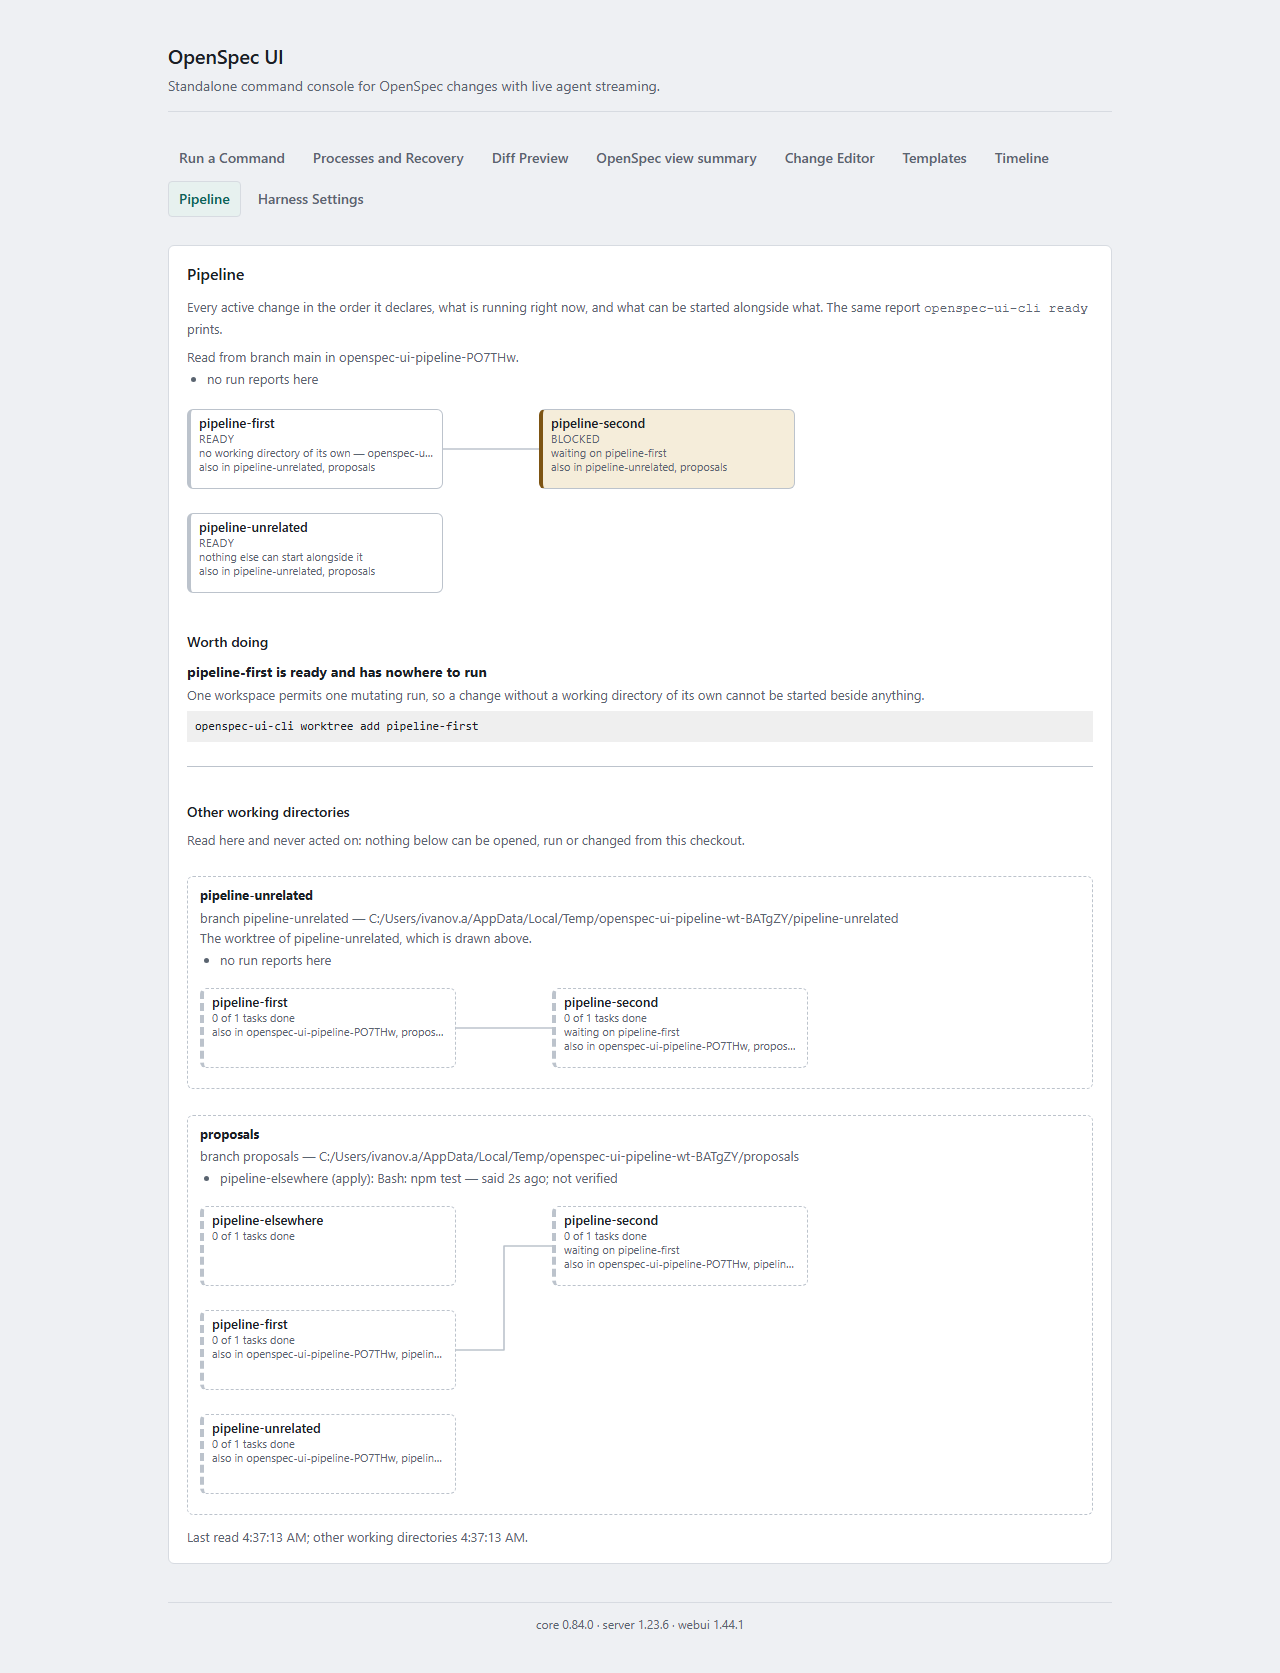
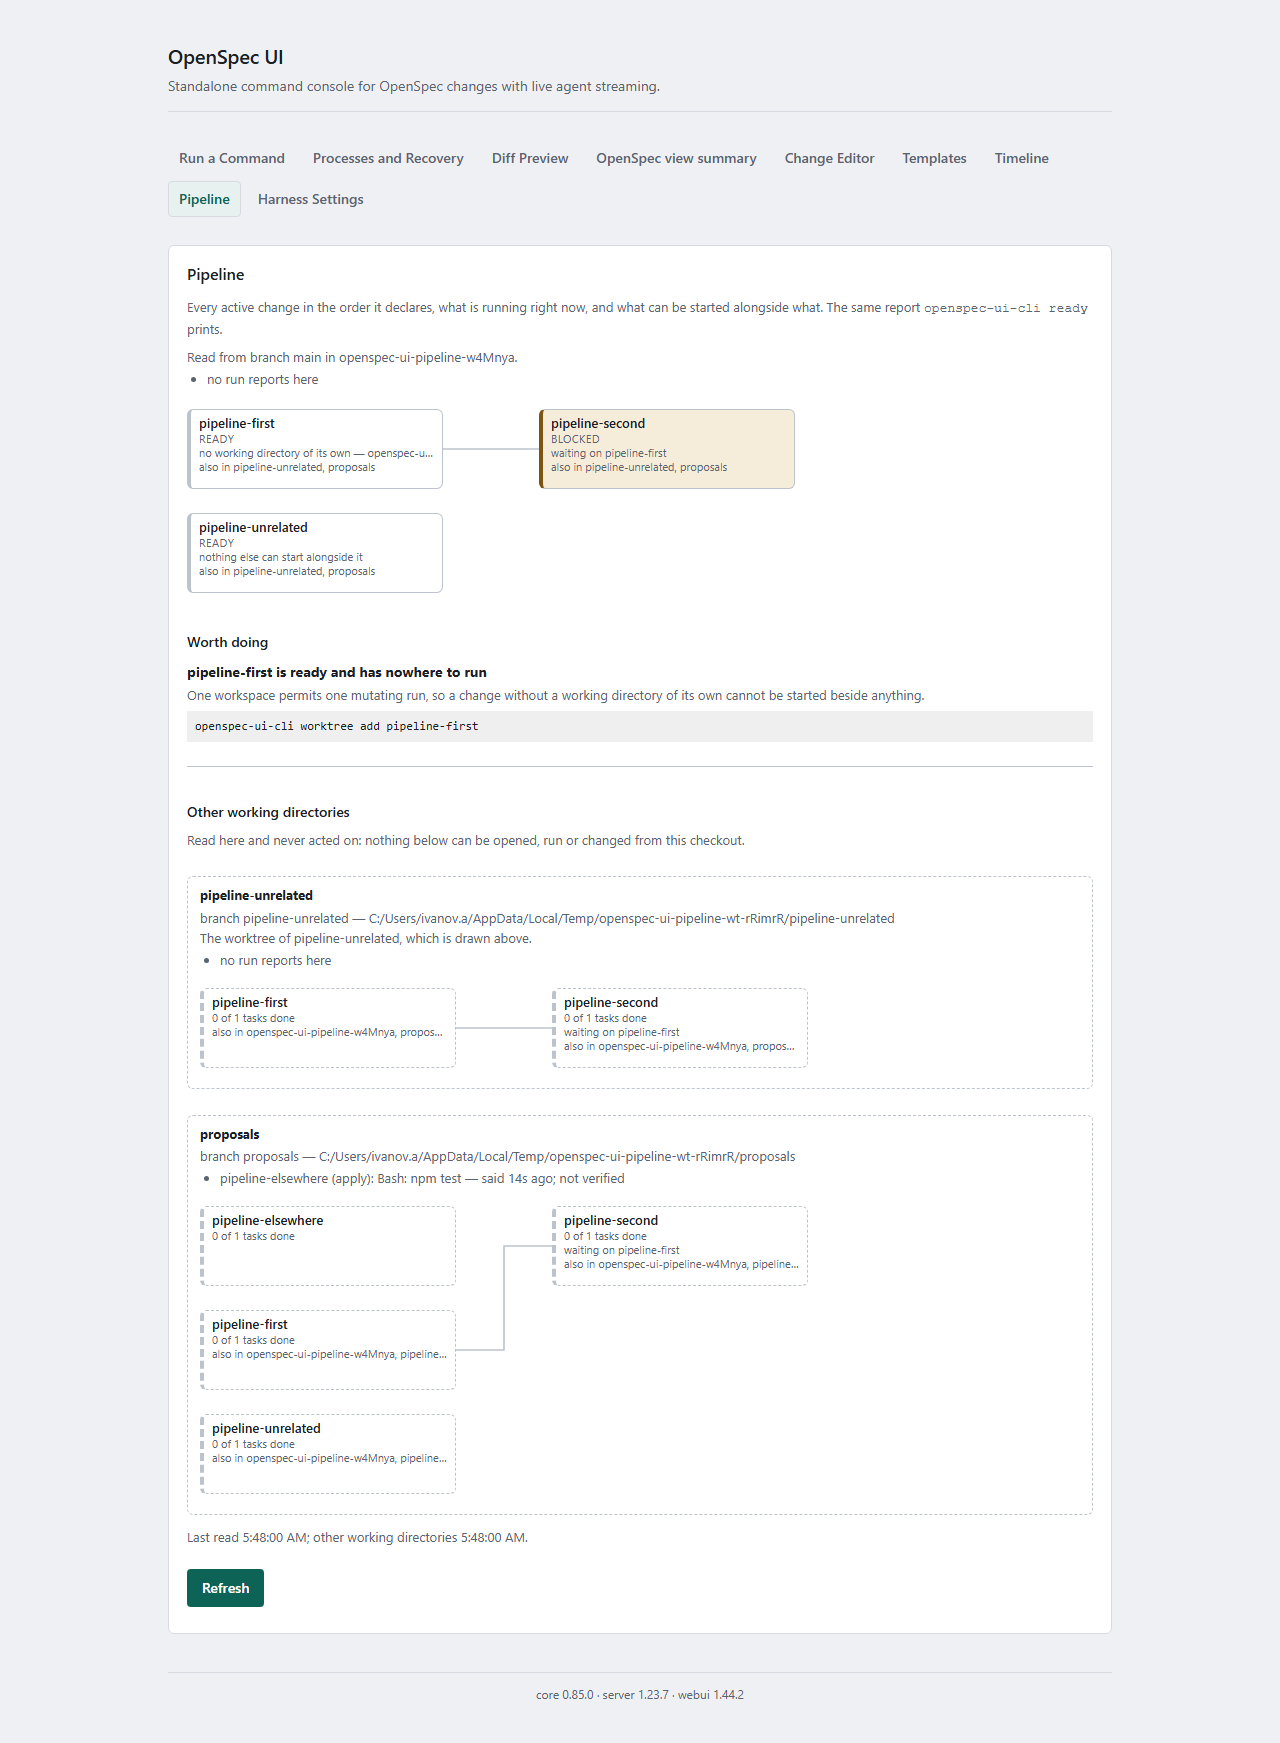
Record where-it-stands verification, and retake its pictures
Closes 10.2 on CI's verify run at 5fca501 and records the local browser and integration suites for 10.4 and 10.5. The pipeline, run dialog and view summary pictures are retaken from the running UI.

diff --git a/openspec/changes/a-change-says-where-it-stands/tasks.md b/openspec/changes/a-change-says-where-it-stands/tasks.md
@@ -267,16 +267,51 @@ changes, and the reply every request to an agent leaves (ADR 0026 and ADR
 
   Done: `openspec validate a-change-says-where-it-stands --strict` reports
   it valid, 2026-09-14.
-- [ ] 10.2 Run `npm run verify` unpiped, after the last edit and with
+- [x] 10.2 Run `npm run verify` unpiped, after the last edit and with
   everything staged. Record the run and the test count for each package.
+
+  Local run 2026-09-14 at `5fca501`, exit code 1. Typecheck and every lint
+  passed. Tests: cli 155 passed; core 1350 passed, 1 failed; extension 356
+  passed; server 92 passed; webui 446 passed. The one failure is
+  `keeps accepting this repository's real openspec/agent-harness.json`.
+  It reads the working tree's file, and an uncommitted local edit that is
+  not part of this change sets its `autonomyLevel` to `semi-autonomous`.
+  Closed on CI: the "Typecheck, lint, test, and build" job ran
+  `npm run verify` at the same commit against the committed tree, and
+  passed,
+  <https://github.com/VeryComplexAndLongName/OpenSpec-UI/actions/runs/34799591187/job/103839377234>.
 - [x] 10.3 A pending changeset exists: core, webui and the extension minor,
   server patch. `check(changeset-present)`
 
   Done: `.changeset/a-change-says-where-it-stands.md`, with the CLI at patch
   for `ready`'s word.
-- [ ] 10.4 Run the whole browser suite, and record the run.
-- [ ] 10.5 Run the extension integration suite with the inherited `VSCODE_*`
+- [x] 10.4 Run the whole browser suite, and record the run.
+
+  Done 2026-09-14 at `5fca501`: `npm run test:browser -w @openspec-ui/server`
+  exited 0, 18 passed (5.2 min). CI's "Standalone browser and
+  accessibility" job passed at the same commit. The retaken pictures of
+  screens this change touches were looked at and kept:
+  - `pipeline.png` shows the Refresh button under the read-at line.
+  - `run-dialog.png` shows the standing block, `Ready` with `Only here
+    (every source read)`, above the configuration.
+  - `view-summary.png` shows the fixture change's `Ready` chip and
+    `Only here`, and beneath the list the sources line. The fixture is not
+    a git repository, so that line says refs and pull requests could not be
+    read, and why.
+
+  `diff-preview.png`, `harness-settings.png` and `processes.png` were also
+  retaken. They show screens this change does not touch, and were restored.
+- [x] 10.5 Run the extension integration suite with the inherited `VSCODE_*`
   and `ELECTRON_*` variables stripped, and record the run.
+
+  Done 2026-09-14 at `5fca501`: `npm run test:integration -w
+  openspec-ui-vscode`, from a PowerShell with every `VSCODE_*` and
+  `ELECTRON_*` variable removed, exited 0 with 18 passing. That includes
+  "Changes tree keeps an implemented change as the parent of its tasks row
+  after refresh". Its assertion was first written for the bare artifact
+  state and failed on CI at `651e217`; it now expects the state word after
+  that state. CI's "Extension integration and package" job passed at
+  `5fca501`.
 - [ ] 10.6 **Delegated to claude-cli**: with a change archived on `main`,
   another ticked further in a worktree, and a third running there, open the
   Changes tree and the standalone Changes list, and try to run the archived
